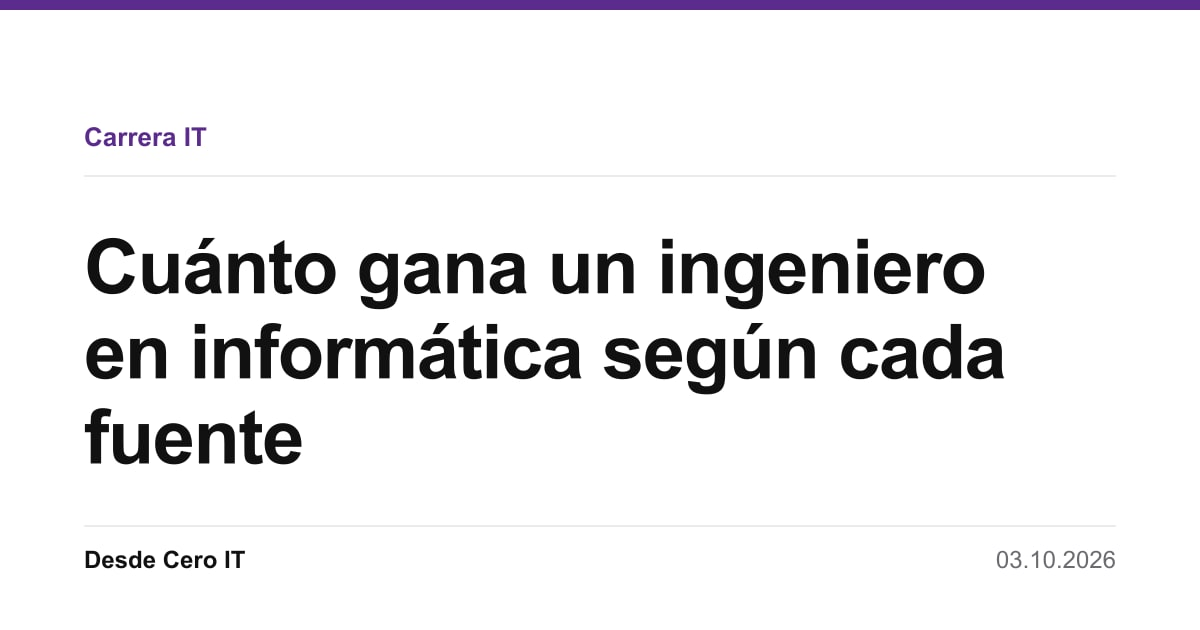
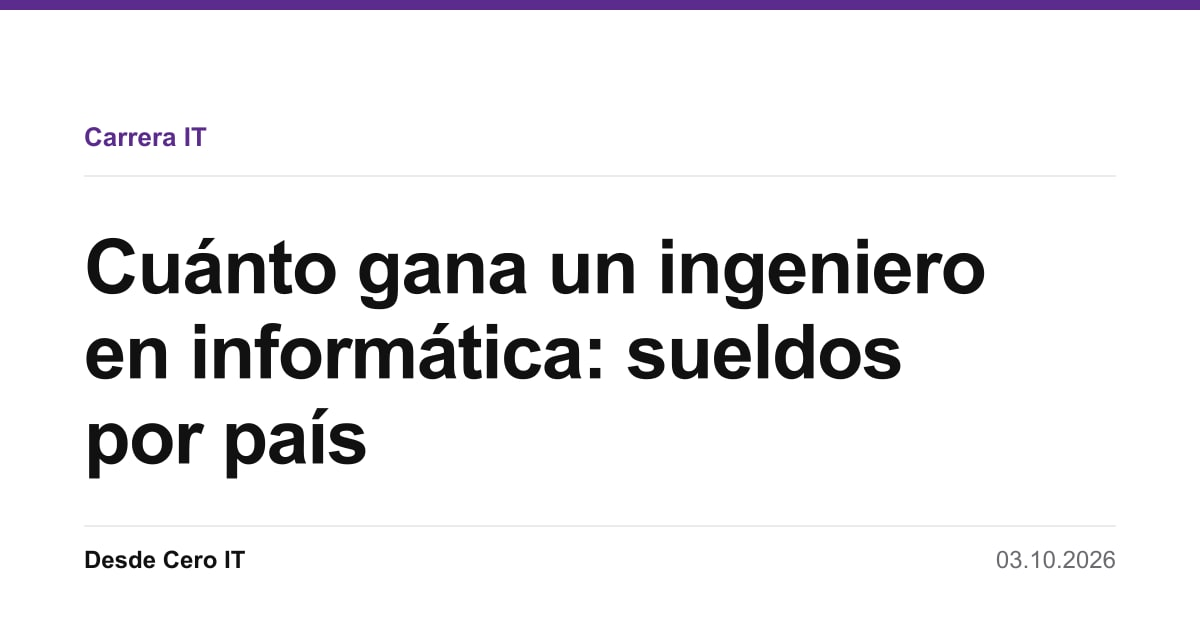
content/mejoras-gsc-y-borrador-packet-tracer

Changed region(s): [[0.4933, 0.5127, 0.8325, 0.6333], [0.0617, 0.6333, 0.3083, 0.754]]

diff --git a/src/content/articles/redes/packet-tracer-que-es-y-como-descargarlo.md b/src/content/articles/redes/packet-tracer-que-es-y-como-descargarlo.md
@@ -1,0 +1,93 @@
+---
+title: "Packet Tracer: qué es y cómo descargarlo gratis"
+description: "Qué es Cisco Packet Tracer, cómo descargarlo gratis desde NetAcad (versión 9.0.1 para Windows, macOS y Ubuntu), qué pide tu computadora y qué practicar primero."
+keyword: "packet tracer"
+cluster: "redes"
+pubDate: 2026-11-14
+author: "Valentín"
+draft: true
+---
+
+Packet Tracer es el programa con el que hacíamos los trabajos prácticos de redes en ISTEA. Lo publica Cisco, es gratuito y permite armar una red completa, con routers, switches, servidores, PC, impresoras y Wi-Fi, sin comprar un solo equipo.
+
+En corto:
+
+- Es **gratis**, pero para descargarlo hay que crear una cuenta en Cisco Networking Academy (NetAcad) e inscribirse en un curso corto, también gratuito.
+- La versión actual es la **9.0.1**, para Windows, macOS y Ubuntu de 64 bits.
+- La primera vez que lo abrís, pide iniciar sesión con esa cuenta.
+- Alcanza para practicar buena parte de lo que piden el CCST Networking y el CCNA: VLAN, rutas estáticas, OSPF, NAT y DHCP.
+
+## Qué es Packet Tracer
+
+Cisco lo presenta como una herramienta de simulación y visualización de redes: un laboratorio virtual para practicar redes, IoT y ciberseguridad sin hardware. En la práctica, arrastrás los equipos a un área de trabajo, los conectás con cables y los configurás como si fueran reales. Los routers y switches de Cisco se configuran por línea de comandos, con los comandos de IOS, el sistema de esos equipos.
+
+También es la herramienta que usan los cursos de NetAcad para sus actividades prácticas, así que si vas a cursar la ruta de redes o la serie CCNA, lo vas a necesitar igual.
+
+## Cómo descargarlo gratis
+
+Cisco lo distribuye a través de NetAcad. Los pasos son tres:
+
+1. **Iniciá sesión o creá una cuenta** en [netacad.com](https://www.netacad.com/). Es gratis.
+2. **Inscribite en el curso *Getting Started with Cisco Packet Tracer*.** Es gratuito, a tu ritmo, dura unas 2 horas y está disponible en español.
+3. **Descargá el instalador** desde el material del curso, donde está la versión más reciente.
+
+Con la sesión iniciada, la descarga también aparece en el centro de recursos de NetAcad, donde se elige el instalador según el sistema operativo.
+
+Después de instalarlo, la primera vez que lo abrís pide autenticarte: hay que hacer clic en el botón verde **Skills For All** e iniciar sesión con la misma cuenta. La descarga oficial está en NetAcad; un instalador bajado de otro sitio no tiene esa garantía.
+
+## Qué necesita tu computadora
+
+| Requisito | Detalle |
+| --- | --- |
+| Sistema operativo | Windows 11, macOS 12 o posterior, o Ubuntu 22.04 o 24.04 LTS |
+| Procesador | 64 bits, amd64 (x86-64) |
+| Memoria | 4 GB de RAM libres |
+| Disco | 1,4 GB libres |
+
+## Lo que armábamos en la cursada
+
+A lo largo de la cursada simulamos tanto una empresa con sectores como redes con varias sedes. Estas son tres topologías que armé para esos trabajos, de la más simple a la más completa.
+
+![Topología en Packet Tracer con un router central y tres sectores: docentes, alumnos y administración, cada uno con switches, servidores, impresoras y puntos de acceso Wi-Fi](../../../assets/packet-tracer/topologia-sectores.webp)
+
+*Una sola sede con un router y tres sectores (docentes, alumnos y administración), cada uno con sus switches, servidores, impresoras y Wi-Fi.*
+
+![Topología en Packet Tracer con tres sedes, planta principal, administración y depósito, conectadas entre sí por sus routers](../../../assets/packet-tracer/topologia-tres-sedes.webp)
+
+*Tres sedes (planta principal, administración y depósito) conectadas entre sí por sus routers, cada una con servidores, impresoras y puntos de acceso Wi-Fi.*
+
+![Topología en Packet Tracer con una red principal dividida en VLAN de usuarios y de servidores, y ocho routers con OSPF en el área 0](../../../assets/packet-tracer/topologia-ospf-vlan.png)
+
+*La más completa: una red principal con una VLAN de usuarios y otra de servidores (DNS, correo, web, FTP, NTP y registros), VTP entre los switches y ocho routers con OSPF en el área 0.*
+
+Ese recorrido, de una sede a varias y de una red plana a VLAN y enrutamiento dinámico, es el mismo que propongo en la sección [CCNA desde cero](/redes/curso-ccna-como-prepararte/#ccna-desde-cero).
+
+## Qué practicar primero
+
+No hace falta arrancar con una topología grande. Dos ejercicios cortos ya cubren lo central:
+
+- **Dos redes y dos routers.** La guía de [fundamentos de redes](/redes/fundamentos-de-redes-para-certificarte/) tiene un primer ejercicio: dos subredes, rutas estáticas para que se hagan ping y después OSPF en lugar de las rutas fijas.
+- **VLAN y enrutamiento entre VLAN.** La sección [CCNA desde cero](/redes/curso-ccna-como-prepararte/#ccna-desde-cero) lo arma paso a paso, con los errores más comunes y los comandos para revisarlos.
+
+Guardá cada topología como archivo (.pkt). Volver a una red que ya funcionaba y romperla a propósito es una buena forma de practicar la resolución de problemas.
+
+## Consejos para tus primeras topologías
+
+- **Probá cada tramo antes de seguir.** Cada vez que sumes un equipo o una red, mandá un ping. Se puede hacer desde la PC, en **Desktop > Command Prompt**, o con la herramienta **Add Simple PDU**, el sobre cerrado de la barra: un clic en el equipo de origen y otro en el de destino. Si armás todo de una y recién ahí probás, encontrar dónde falla es mucho más difícil.
+- **Usá el modo Simulation.** Yo lo usaba mucho. Abajo a la derecha se pasa de **Realtime** a **Simulation**, y ahí el paquete avanza paso a paso: se ve por qué equipo pasa y en cuál se pierde. Con **Edit Filters** podés dejar a la vista solo el protocolo que te interesa, por ejemplo ICMP para seguir un ping.
+- **Configurá los servidores desde la pestaña Services.** Los servidores de Packet Tracer traen servicios listos para activar, como DHCP, DNS, HTTP, correo, FTP, NTP y Syslog. Así se armaron los de la red principal de arriba. Antes de activarlos, dale al servidor una IP fija en **Desktop > IP Configuration**.
+- **Anotá el direccionamiento en el área de trabajo.** Una nota con cada red, cada VLAN y la IP de los servidores, como la de la última captura, te evita volver a revisar equipo por equipo.
+
+## Para qué certificaciones sirve
+
+- **CCST Networking:** el [examen 100-150](/redes/ccst-networking-examen/) incluye configurar y verificar conexiones, algo que se practica mejor armando la red que leyendo.
+- **CCNA:** el examen incluye preguntas basadas en desempeño, donde hay que configurar, no elegir definiciones. Las rutas para prepararlo están en la guía de [curso CCNA](/redes/curso-ccna-como-prepararte/).
+- **Cursos de NetAcad:** Introducción a las redes, el primero de la serie [CCNA 1, 2 y 3](/redes/ccna-1-2-3-cursos-netacad/), tiene una evaluación práctica y una final hechas en Packet Tracer.
+
+## Fuentes
+
+- [Getting Started with Cisco Packet Tracer (Cisco Networking Academy)](https://www.netacad.com/courses/getting-started-cisco-packet-tracer): qué es Packet Tracer, cómo se descarga, duración del curso e idiomas.
+- [Centro de recursos de Cisco Networking Academy](https://www.netacad.com/resources/lab-downloads): versión 9.0.1, sistemas operativos, requisitos e inicio de sesión.
+- [Introducción a las redes (Cisco Networking Academy)](https://www.netacad.com/courses/ccna-introduction-networks): las evaluaciones en Packet Tracer del curso.
+
+*Versión, requisitos y pasos de descarga verificados el 10 de noviembre de 2026 en Cisco Networking Academy.*

diff --git a/src/content/articles/carrera/cuanto-gana-ingeniero-informatica.md b/src/content/articles/carrera/cuanto-gana-ingeniero-informatica.md
@@ -1,10 +1,10 @@
 ---
-title: "Cuánto gana un ingeniero en informática según cada fuente"
-description: "Los sueldos de informática publicados en España, México y Argentina cambian varias veces según quién los mida y para qué perfil. Qué dice cada fuente y cuál sirve para tu caso."
+title: "Cuánto gana un ingeniero en informática: sueldos por país"
+description: "Cuánto gana un ingeniero en informática en España, México y Argentina según Randstad, Data México y sysarmy, por qué las cifras no coinciden y cuál sirve para cada caso."
 keyword: "ingeniero en informatica cuanto gana"
 cluster: "carrera"
 pubDate: 2026-10-03
-updatedDate: 2026-10-24
+updatedDate: 2026-11-10
 author: "Valentín"
 draft: false
 ---
@@ -14,10 +14,19 @@ Si buscaste este dato antes, ya te habrá pasado: cada sitio dice un número dis
 Antes de mirar cualquier cifra:
 
 - **No existe un sueldo de "ingeniero en informática"**: es un título universitario, no un puesto, y el mercado paga por rol y seniority.
-- En España, el rango de Randstad para un desarrollador va de **€22.000 a €81.000 anuales** según la experiencia.
 - Las estadísticas oficiales miden a toda la fuerza laboral; las encuestas del sector miden a quienes participan en comunidades técnicas. Nunca dan lo mismo.
 - El factor que más mueve el número no es el país: es **el origen de la empresa que paga**.
 - Los datos provienen de informes publicados entre noviembre de 2025 y agosto de 2026, y envejecen rápido.
+
+Las cifras de referencia, por país:
+
+| País | Fuente | Cifra |
+| --- | --- | --- |
+| España | Randstad Research, desarrollador/a | €22.000 a €81.000 anuales, según la experiencia |
+| México | Data México, desarrolladores y analistas de software | ~$11.000 MXN mensuales de promedio |
+| Argentina | Encuesta de sysarmy, todos los puestos de IT | $3.254.000 ARS brutos mensuales de mediana (enero de 2026) |
+
+El detalle de cada país, y por qué una cifra no se puede comparar con la otra, está más abajo.
 
 ## Por qué ninguna fuente coincide
 
@@ -102,4 +111,4 @@ Y si estás decidiendo qué estudiar o certificar para mover ese número, el [ro
 - **México:** [reporte de salarios de tecnología 2026 de CodersLink](https://coderslink.com/employers/tech-salaries-report), con 10.246 salarios verificados entre el cuarto trimestre de 2025 y el primero de 2026, y la [ficha de desarrolladores y analistas de software de Data México (Secretaría de Economía)](https://www.economia.gob.mx/datamexico/es/profile/occupation/desarrolladores-y-analistas-de-software-y-multimedia).
 - **España:** [informe de tendencias salariales 2026 de Randstad Research](https://www.randstadresearch.es/tendencias-salariales/) y su [infografía del sector IT y Telecom (PDF)](https://d2xlh7jfmz7hr5.cloudfront.net/wp-content/uploads/2025/12/RANDSTAD-Infografia-Salarios-2026-IT-y-Telecom.pdf), con los rangos por perfil, y [Talent.com](https://es.talent.com/salary?job=ingeniero+informatico).
 
-*Datos relevados en septiembre de 2026, correspondientes a informes publicados entre noviembre de 2025 y agosto de 2026; todas las cifras se volvieron a comprobar en las fuentes originales el 24 de octubre de 2026. Los sueldos del sector cambian rápido: verificá las fuentes originales antes de usarlos para negociar.*
+*Datos relevados en septiembre de 2026, correspondientes a informes publicados entre noviembre de 2025 y agosto de 2026; todas las cifras se volvieron a comprobar en las fuentes originales el 24 de octubre de 2026, y el 10 de noviembre se confirmó que la edición 2026.01 de sysarmy sigue siendo la más reciente. Los sueldos del sector cambian rápido: verificá las fuentes originales antes de usarlos para negociar.*

diff --git a/src/content/articles/redes/cisco-networking-academy-como-entrar.md b/src/content/articles/redes/cisco-networking-academy-como-entrar.md
@@ -1,10 +1,10 @@
 ---
-title: "Cisco Networking Academy: cómo entrar y lograr el descuento"
-description: "Qué ofrece NetAcad gratis, cómo encontrar una academia y qué exige Cisco para el descuento en el examen CCNA: 70% en el primer intento del examen final de ENSA."
+title: "Cisco Networking Academy: qué es, cómo entrar y el descuento"
+description: "Qué es Cisco Networking Academy (NetAcad), qué ofrece gratis, cómo encontrar una academia y qué exige Cisco para el descuento del CCNA: 70% en el primer intento del final de ENSA."
 keyword: "cisco network academy"
 cluster: "redes"
 pubDate: 2026-10-03
-updatedDate: 2026-10-24
+updatedDate: 2026-11-10
 author: "Valentín"
 draft: false
 ---
@@ -19,9 +19,9 @@ Lo que hay que saber antes de inscribirte:
 - Cisco publica los requisitos del descuento, pero **no publica el porcentaje**.
 - **Packet Tracer es gratuito** y se descarga inscribiéndose a un curso corto de la plataforma.
 
-## Qué ofrece NetAcad
+## Qué es NetAcad y qué ofrece
 
-Cisco Networking Academy es el brazo educativo de Cisco, funcionando desde 1997. Su catálogo se divide en dos tipos de curso que conviene no confundir:
+Cisco Networking Academy, o NetAcad, es el programa educativo de Cisco, que funciona desde 1997. Tiene dos partes: una plataforma en línea, netacad.com, con cursos de redes, ciberseguridad y otras áreas de tecnología, y una red de academias, que son instituciones educativas que dictan esos cursos con instructor. Su catálogo se divide en dos tipos de curso que conviene no confundir:
 
 | Tipo | Costo | Qué incluye |
 | --- | --- | --- |

diff --git a/src/content/articles/carrera/que-hace-un-soporte-tecnico.md b/src/content/articles/carrera/que-hace-un-soporte-tecnico.md
@@ -1,9 +1,10 @@
 ---
 title: "Qué hace un soporte técnico: un día en la mesa de ayuda"
-description: "Qué es una mesa de ayuda y qué hace un soporte técnico de nivel 1, contado desde adentro: los tres niveles, cuántos tickets llegan, qué se resuelve y qué se deriva, y qué habilidades pesan."
+description: "Qué es el soporte técnico, qué es una mesa de ayuda y qué hace un soporte de nivel 1, contado desde adentro: los tres niveles, cuántos tickets llegan, qué se resuelve y qué se deriva."
 keyword: "que hace un soporte tecnico"
 cluster: "carrera"
 pubDate: 2026-10-24
+updatedDate: 2026-11-10
 author: "Valentín"
 draft: false
 ---
@@ -16,6 +17,10 @@ En pocas palabras:
 - El soporte se organiza en **niveles**: el nivel 1 resuelve la mayoría y deriva lo que necesita manos en el equipo, permisos especiales o un área especializada.
 - En mi caso eran **entre 30 y 50 tickets por día**, por teléfono y por mail, con cobertura las 24 horas.
 - Lo técnico se aprende rápido; lo que más pesa es **explicar cosas técnicas de forma simple** y manejar la frustración del otro.
+
+## Qué es el soporte técnico
+
+El soporte técnico, también llamado soporte TI, es el trabajo de resolver los problemas de tecnología de las personas que usan los equipos y sistemas: desde una contraseña bloqueada hasta una notebook que no enciende. Puede ser para clientes de un producto o, como en mi caso, para los empleados de una empresa. Ahí suele organizarse alrededor de una mesa de ayuda.
 
 ## Qué es una mesa de ayuda
 

diff --git a/docs/mapa-keywords.md b/docs/mapa-keywords.md
@@ -256,3 +256,15 @@ Keyword Planner, 24/10/2026, todos los países e idiomas, oct 2025 - sep 2026:
 `que hace un soporte tecnico` no es el término contaminado de la regla 4 de
 la Parte 4: la frase completa tiene intención de carrera, no de atención al
 cliente de una marca.
+
+## Cluster Packet Tracer y redes (10/11/2026)
+
+Keyword Planner, 10/11/2026, oct 2025 - sep 2026 (moneda ARS; la ubicación no figura en el export):
+
+| Keyword | Búsquedas/mes | Competencia | Asignada a |
+| --- | --- | --- | --- |
+| `packet tracer` | 500.000 (+900% en tres meses) | Baja | `redes/packet-tracer-que-es-y-como-descargarlo` (borrador) |
+| `descargar packet tracer` | 5.000 (-90% interanual) | Baja | `redes/packet-tracer-que-es-y-como-descargarlo` (misma intención) |
+| `como calcular subredes` | 500 | Baja | `redes/fundamentos-de-redes-para-certificarte` (sección de subredes) |
+| `ccna gratis` | 500 | Baja | `redes/curso-ccna-como-prepararte` (después de la medición de fin de noviembre) |
+| `configurar vlan packet tracer` | 50 | Baja | Sección dentro de otra guía, no artículo propio |
